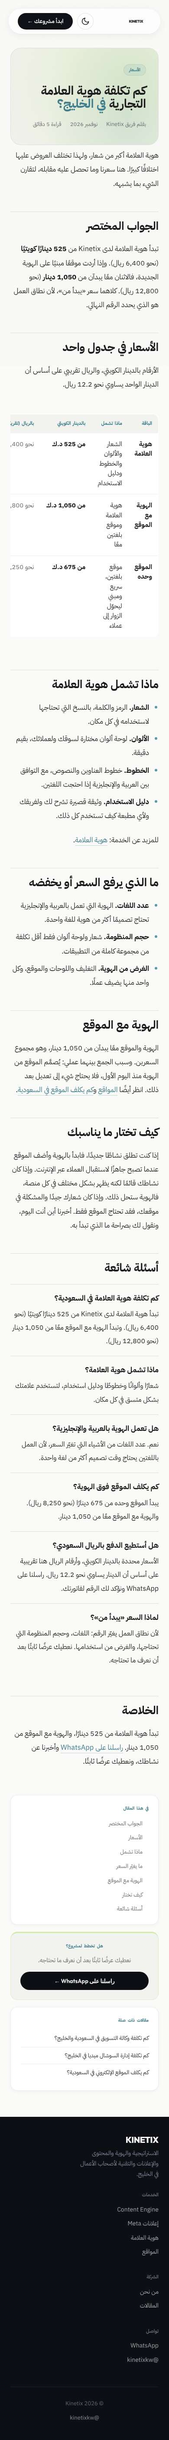
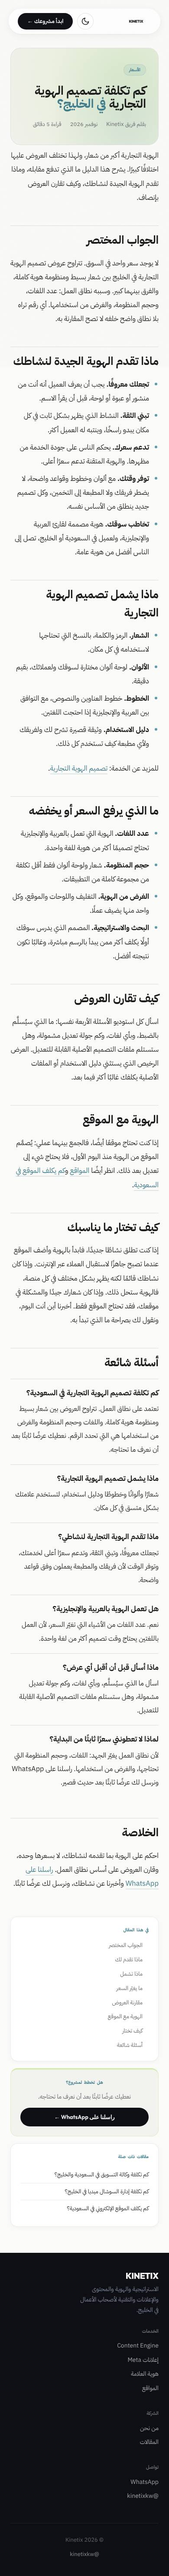
Brand identity cost article: benefits-led, no Kinetix prices, name Brand Identity Design (EN + AR)
Claude-Session: https://claude.ai/code/session_01VGEp5mez7gf8k5JAH74sC2

Changed region(s): [[0.0, 0.0, 1.0, 0.9658], [0.2462, 0.7166, 0.2769, 0.7477], [0.1846, 0.7166, 0.2154, 0.7477]]

diff --git a/ar/articles/brand-identity-cost-gcc.html b/ar/articles/brand-identity-cost-gcc.html
@@ -4,10 +4,10 @@
 <meta charset="UTF-8">
 <link rel="icon" type="image/svg+xml" href="/favicon.svg">
 <meta name="viewport" content="width=device-width, initial-scale=1.0">
-<title>كم تكلفة هوية العلامة التجارية في الخليج؟ (2026) | Kinetix</title>
-<meta name="description" content="كم تكلف هوية العلامة التجارية في السعودية والخليج في 2026: أسعار Kinetix بالدينار الكويتي وما يعادلها بالريال، وماذا تشمل، ومتى تضيف موقعًا.">
-<meta property="og:title" content="كم تكلفة هوية العلامة التجارية في الخليج؟ (2026)">
-<meta property="og:description" content="كم تكلف هوية العلامة التجارية في السعودية والخليج في 2026: أسعار Kinetix بالدينار الكويتي وما يعادلها بالريال، وماذا تشمل، ومتى تضيف موقعًا.">
+<title>كم تكلفة تصميم الهوية التجارية في الخليج؟ (2026) | Kinetix</title>
+<meta name="description" content="كم يكلف تصميم الهوية التجارية في السعودية والخليج في 2026، وما الذي يحدد السعر، وماذا تقدم الهوية الجيدة لنشاطك، وكيف تقارن العروض.">
+<meta property="og:title" content="كم تكلفة تصميم الهوية التجارية في الخليج؟ (2026)">
+<meta property="og:description" content="كم يكلف تصميم الهوية التجارية في السعودية والخليج في 2026، وما الذي يحدد السعر، وماذا تقدم الهوية الجيدة لنشاطك، وكيف تقارن العروض.">
 <meta property="og:type" content="article">
 <meta property="og:image" content="https://www.kinetixkw.com/brand_assets/og-cover.png">
 <meta property="og:site_name" content="Kinetix">
@@ -18,10 +18,10 @@
 <link rel="alternate" hreflang="ar" href="https://www.kinetixkw.com/ar/articles/brand-identity-cost-gcc.html">
 <link rel="alternate" hreflang="x-default" href="https://www.kinetixkw.com/articles/brand-identity-cost-gcc.html">
 <script type="application/ld+json">
-{"@context": "https://schema.org", "@type": "BlogPosting", "headline": "كم تكلفة هوية العلامة التجارية في الخليج؟ (2026)", "description": "كم تكلف هوية العلامة التجارية في السعودية والخليج في 2026: أسعار Kinetix بالدينار الكويتي وما يعادلها بالريال، وماذا تشمل، ومتى تضيف موقعًا.", "image": "https://www.kinetixkw.com/brand_assets/og-cover.png", "author": {"@type": "Organization", "name": "Kinetix"}, "publisher": {"@type": "Organization", "name": "Kinetix", "url": "https://www.kinetixkw.com"}, "datePublished": "2026-11-02", "dateModified": "2026-11-02", "inLanguage": "ar", "mainEntityOfPage": {"@type": "WebPage", "@id": "https://www.kinetixkw.com/ar/articles/brand-identity-cost-gcc.html"}, "url": "https://www.kinetixkw.com/ar/articles/brand-identity-cost-gcc.html"}
+{"@context": "https://schema.org", "@type": "BlogPosting", "headline": "كم تكلفة تصميم الهوية التجارية في الخليج؟ (2026)", "description": "كم يكلف تصميم الهوية التجارية في السعودية والخليج في 2026، وما الذي يحدد السعر، وماذا تقدم الهوية الجيدة لنشاطك، وكيف تقارن العروض.", "image": "https://www.kinetixkw.com/brand_assets/og-cover.png", "author": {"@type": "Organization", "name": "Kinetix"}, "publisher": {"@type": "Organization", "name": "Kinetix", "url": "https://www.kinetixkw.com"}, "datePublished": "2026-11-02", "dateModified": "2026-11-02", "inLanguage": "ar", "mainEntityOfPage": {"@type": "WebPage", "@id": "https://www.kinetixkw.com/ar/articles/brand-identity-cost-gcc.html"}, "url": "https://www.kinetixkw.com/ar/articles/brand-identity-cost-gcc.html"}
 </script>
 <script type="application/ld+json">
-{"@context": "https://schema.org", "@type": "FAQPage", "inLanguage": "ar", "mainEntity": [{"@type": "Question", "name": "كم تكلفة هوية العلامة في السعودية؟", "acceptedAnswer": {"@type": "Answer", "text": "تبدأ هوية العلامة لدى Kinetix من 525 دينارًا كويتيًا (نحو 6,400 ريال). وتبدأ الهوية مع الموقع معًا من 1,050 دينار (نحو 12,800 ريال)."}}, {"@type": "Question", "name": "ماذا تشمل هوية العلامة؟", "acceptedAnswer": {"@type": "Answer", "text": "شعارًا وألوانًا وخطوطًا ودليل استخدام، لتستخدم علامتك بشكل متسق في كل مكان."}}, {"@type": "Question", "name": "هل تعمل الهوية بالعربية والإنجليزية؟", "acceptedAnswer": {"@type": "Answer", "text": "نعم. عدد اللغات من الأشياء التي تغيّر السعر، لأن العمل باللغتين يحتاج وقت تصميم أكثر من لغة واحدة."}}, {"@type": "Question", "name": "كم يكلف الموقع فوق الهوية؟", "acceptedAnswer": {"@type": "Answer", "text": "يبدأ الموقع وحده من 675 دينارًا (نحو 8,250 ريال). والهوية مع الموقع معًا من 1,050 دينار."}}, {"@type": "Question", "name": "هل أستطيع الدفع بالريال السعودي؟", "acceptedAnswer": {"@type": "Answer", "text": "الأسعار محددة بالدينار الكويتي، وأرقام الريال هنا تقريبية على أساس أن الدينار يساوي نحو 12.2 ريال. راسلنا على WhatsApp ونؤكد لك الرقم لفاتورتك."}}, {"@type": "Question", "name": "لماذا السعر «يبدأ من»؟", "acceptedAnswer": {"@type": "Answer", "text": "لأن نطاق العمل يغيّر الرقم: اللغات، وحجم المنظومة التي تحتاجها، والغرض من استخدامها. نعطيك عرضًا ثابتًا بعد أن نعرف ما تحتاجه."}}]}
+{"@context": "https://schema.org", "@type": "FAQPage", "inLanguage": "ar", "mainEntity": [{"@type": "Question", "name": "كم تكلفة تصميم الهوية التجارية في السعودية؟", "acceptedAnswer": {"@type": "Answer", "text": "تعتمد على نطاق العمل. تتراوح العروض بين شعار بسيط ومنظومة هوية كاملة. واللغات وحجم المنظومة والغرض من استخدامها هي التي تحدد الرقم. نعطيك عرضًا ثابتًا بعد أن نعرف ما تحتاجه."}}, {"@type": "Question", "name": "ماذا يشمل تصميم الهوية التجارية؟", "acceptedAnswer": {"@type": "Answer", "text": "شعارًا وألوانًا وخطوطًا ودليل استخدام، لتستخدم علامتك بشكل متسق في كل مكان."}}, {"@type": "Question", "name": "ماذا تقدم الهوية التجارية لنشاطي؟", "acceptedAnswer": {"@type": "Answer", "text": "تجعلك معروفًا، وتبني الثقة، وتدعم سعرًا أعلى لخدمتك، وتوفر الوقت لأن فريقك والمطبعة يعملون وفق قواعد واضحة."}}, {"@type": "Question", "name": "هل تعمل الهوية بالعربية والإنجليزية؟", "acceptedAnswer": {"@type": "Answer", "text": "نعم. عدد اللغات من الأشياء التي تغيّر السعر، لأن العمل باللغتين يحتاج وقت تصميم أكثر من لغة واحدة."}}, {"@type": "Question", "name": "ماذا أسأل قبل أن أقبل أي عرض؟", "acceptedAnswer": {"@type": "Answer", "text": "اسأل ما الذي سيُسلَّم، وبأي لغات، وكم جولة تعديل مشمولة، وهل ستستلم ملفات التصميم الأصلية القابلة للتعديل."}}, {"@type": "Question", "name": "لماذا لا تعطونني سعرًا ثابتًا من البداية؟", "acceptedAnswer": {"@type": "Answer", "text": "لأن نطاق العمل يغيّر الجهد: اللغات، وحجم المنظومة التي تحتاجها، والغرض من استخدامها. راسلنا على WhatsApp ونرسل لك عرضًا ثابتًا بعد حديث قصير."}}]}
 </script>
 <link rel="preconnect" href="https://fonts.googleapis.com"><link rel="preconnect" href="https://fonts.gstatic.com" crossorigin><link href="https://fonts.googleapis.com/css2?family=Outfit:wght@300;400;500;600;700;800&display=swap" rel="stylesheet">
 <link href="https://fonts.googleapis.com/css2?family=IBM+Plex+Sans+Arabic:wght@400;500;600;700&display=swap" rel="stylesheet">
@@ -155,42 +155,49 @@ body,.article-h1,.article-body h2,.article-body h3,.nav-cta,.related-title,.side
 <div class="article-wrap">
   <div class="article-hero"><div class="article-hero-inner">
     <div class="article-cat">الأسعار</div>
-    <h1 class="article-h1">كم تكلفة هوية العلامة التجارية <em>في الخليج؟</em></h1>
+    <h1 class="article-h1">كم تكلفة تصميم الهوية التجارية <em>في الخليج؟</em></h1>
     <div class="article-meta-row"><span>بقلم فريق Kinetix</span><span>نوفمبر 2026</span><span>قراءة 5 دقائق</span></div>
   </div></div>
   <div class="article-main">
   <article class="article-body">
-<p>هوية العلامة أكبر من شعار، ولهذا تختلف العروض عليها اختلافًا كبيرًا. هنا سعرنا وما تحصل عليه مقابله، لتقارن الشيء بما يشبهه.</p>
+<p>الهوية التجارية أكبر من شعار، ولهذا تختلف العروض عليها اختلافًا كبيرًا. يشرح هذا الدليل ما الذي تدفع مقابله، وماذا تقدم الهوية الجيدة لنشاطك، وكيف تقارن العروض بإنصاف.</p>
 <h2 id="short-answer">الجواب المختصر</h2>
-<p>تبدأ هوية العلامة لدى Kinetix من <strong>525 دينارًا كويتيًا</strong> (نحو 6,400 ريال). وإذا أردت موقعًا مبنيًا على الهوية الجديدة، فالاثنان معًا يبدآن من <strong>1,050 دينار</strong> (نحو 12,800 ريال). كلاهما سعر «يبدأ من»، لأن نطاق العمل هو الذي يحدد الرقم النهائي.</p>
-<h2 id="prices">الأسعار في جدول واحد</h2>
-<p>الأرقام بالدينار الكويتي، والريال تقريبي على أساس أن الدينار الواحد يساوي نحو 12.2 ريال.</p>
-<div class="table-scroll"><table class="price-table"><thead><tr><th>الباقة</th><th>ماذا تشمل</th><th>بالدينار الكويتي</th><th>بالريال (تقريبًا)</th></tr></thead><tbody><tr><td>هوية العلامة</td><td>الشعار والألوان والخطوط ودليل الاستخدام</td><td class="num">من <span dir="ltr">525</span> د.ك</td><td class="sar">نحو <span dir="ltr">6,400</span> ريال</td></tr><tr><td>الهوية مع الموقع</td><td>هوية العلامة وموقع بلغتين معًا</td><td class="num">من <span dir="ltr">1,050</span> د.ك</td><td class="sar">نحو <span dir="ltr">12,800</span> ريال</td></tr><tr><td>الموقع وحده</td><td>موقع بلغتين، سريع ومبني ليحوّل الزوار إلى عملاء</td><td class="num">من <span dir="ltr">675</span> د.ك</td><td class="sar">نحو <span dir="ltr">8,250</span> ريال</td></tr></tbody></table></div>
-<h2 id="included">ماذا تشمل هوية العلامة</h2>
+<p>لا يوجد سعر واحد في السوق. تتراوح عروض تصميم الهوية التجارية في الخليج بين شعار بسيط ومنظومة هوية كاملة، والفرق بينهما كبير. وسببه نطاق العمل: عدد اللغات، وحجم المنظومة، والغرض من استخدامها. أي رقم تراه بلا نطاق واضح خلفه لا تصح المقارنة به.</p>
+<h2 id="benefits">ماذا تقدم الهوية الجيدة لنشاطك</h2>
+<ul>
+<li><strong>تجعلك معروفًا.</strong> يجب أن يعرف العميل أنه أنت من منشور أو عبوة أو لوحة، قبل أن يقرأ الاسم.</li>
+<li><strong>تبني الثقة.</strong> النشاط الذي يظهر بشكل ثابت في كل مكان يبدو راسخًا، وينتبه له العميل أكثر.</li>
+<li><strong>تدعم سعرك.</strong> يحكم الناس على جودة الخدمة من مظهرها. والهوية المتقنة تدعم سعرًا أعلى.</li>
+<li><strong>توفر وقتك.</strong> مع ألوان وخطوط وقواعد واضحة، لا يضطر فريقك ولا المطبعة إلى التخمين، وكل تصميم جديد ينطلق من الأساس نفسه.</li>
+<li><strong>تخاطب سوقك.</strong> هوية مصممة لقارئ العربية والإنجليزية، ولعميل في السعودية أو الخليج، تصل إلى الناس أفضل من هوية عامة.</li>
+</ul>
+<h2 id="included">ماذا يشمل تصميم الهوية التجارية</h2>
 <ul>
 <li><strong>الشعار.</strong> الرمز والكلمة، بالنسخ التي تحتاجها لاستخدامه في كل مكان.</li>
 <li><strong>الألوان.</strong> لوحة ألوان مختارة لسوقك ولعملائك، بقيم دقيقة.</li>
 <li><strong>الخطوط.</strong> خطوط العناوين والنصوص، مع التوافق بين العربية والإنجليزية إذا احتجت اللغتين.</li>
 <li><strong>دليل الاستخدام.</strong> وثيقة قصيرة تشرح لك ولفريقك ولأي مطبعة كيف تستخدم كل ذلك.</li>
 </ul>
-<p>للمزيد عن الخدمة: <a href="/ar/services/brand-identity.html">هوية العلامة</a>.</p>
+<p>للمزيد عن الخدمة: <a href="/ar/services/brand-identity.html">تصميم الهوية التجارية</a>.</p>
 <h2 id="drivers">ما الذي يرفع السعر أو يخفضه</h2>
 <ul>
 <li><strong>عدد اللغات.</strong> الهوية التي تعمل بالعربية والإنجليزية تحتاج تصميمًا أكثر من هوية للغة واحدة.</li>
 <li><strong>حجم المنظومة.</strong> شعار ولوحة ألوان فقط أقل تكلفة من مجموعة كاملة من التطبيقات.</li>
 <li><strong>الغرض من الهوية.</strong> التغليف واللوحات والموقع، وكل واحد منها يضيف عملًا.</li>
+<li><strong>البحث والاستراتيجية.</strong> المصمم الذي يدرس سوقك أولًا يكلف أكثر ممن يبدأ بالرسم مباشرة، وغالبًا تكون نتيجته أفضل.</li>
 </ul>
+<h2 id="compare">كيف تقارن العروض</h2>
+<p>اسأل كل استوديو الأسئلة الأربعة نفسها: ما الذي سيُسلَّم بالضبط، وبأي لغات، وكم جولة تعديل مشمولة، وهل ستستلم ملفات التصميم الأصلية القابلة للتعديل. العرض الرخيص الذي يستثني دليل الاستخدام أو الملفات الأصلية يكلفك غالبًا أكثر فيما بعد.</p>
 <h2 id="website">الهوية مع الموقع</h2>
-<p>الهوية والموقع معًا يبدآن من 1,050 دينار، وهو مجموع السعرين. وسبب الجمع بينهما عملي: يُصمَّم الموقع من الهوية منذ اليوم الأول، فلا يحتاج شيء إلى تعديل بعد ذلك. انظر أيضًا <a href="/ar/services/web-development.html">المواقع</a> و<a href="website-cost-saudi-arabia.html">كم يكلف الموقع في السعودية</a>.</p>
+<p>إذا كنت تحتاج موقعًا أيضًا، فالجمع بينهما عملي: يُصمَّم الموقع من الهوية منذ اليوم الأول، فلا يحتاج شيء إلى تعديل بعد ذلك. انظر أيضًا <a href="/ar/services/web-development.html">المواقع</a> و<a href="website-cost-saudi-arabia.html">كم يكلف الموقع في السعودية</a>.</p>
 <h2 id="how">كيف تختار ما يناسبك</h2>
 <p>إذا كنت تطلق نشاطًا جديدًا، فابدأ بالهوية وأضف الموقع عندما تصبح جاهزًا لاستقبال العملاء عبر الإنترنت. وإذا كان نشاطك قائمًا لكنه يظهر بشكل مختلف في كل منصة، فالهوية ستحل ذلك. وإذا كان شعارك جيدًا والمشكلة في موقعك، فقد تحتاج الموقع فقط. أخبرنا أين أنت اليوم، ونقول لك بصراحة ما الذي تبدأ به.</p>
-<h2 id="faq">أسئلة شائعة</h2>
-<div class="faq-item"><h3>كم تكلفة هوية العلامة في السعودية؟</h3><p>تبدأ هوية العلامة لدى Kinetix من 525 دينارًا كويتيًا (نحو 6,400 ريال). وتبدأ الهوية مع الموقع معًا من 1,050 دينار (نحو 12,800 ريال).</p></div><div class="faq-item"><h3>ماذا تشمل هوية العلامة؟</h3><p>شعارًا وألوانًا وخطوطًا ودليل استخدام، لتستخدم علامتك بشكل متسق في كل مكان.</p></div><div class="faq-item"><h3>هل تعمل الهوية بالعربية والإنجليزية؟</h3><p>نعم. عدد اللغات من الأشياء التي تغيّر السعر، لأن العمل باللغتين يحتاج وقت تصميم أكثر من لغة واحدة.</p></div><div class="faq-item"><h3>كم يكلف الموقع فوق الهوية؟</h3><p>يبدأ الموقع وحده من 675 دينارًا (نحو 8,250 ريال). والهوية مع الموقع معًا من 1,050 دينار.</p></div><div class="faq-item"><h3>هل أستطيع الدفع بالريال السعودي؟</h3><p>الأسعار محددة بالدينار الكويتي، وأرقام الريال هنا تقريبية على أساس أن الدينار يساوي نحو 12.2 ريال. راسلنا على WhatsApp ونؤكد لك الرقم لفاتورتك.</p></div><div class="faq-item"><h3>لماذا السعر «يبدأ من»؟</h3><p>لأن نطاق العمل يغيّر الرقم: اللغات، وحجم المنظومة التي تحتاجها، والغرض من استخدامها. نعطيك عرضًا ثابتًا بعد أن نعرف ما تحتاجه.</p></div>
+<h2 id="faq">أسئلة شائعة</h2><div class="faq-item"><h3>كم تكلفة تصميم الهوية التجارية في السعودية؟</h3><p>تعتمد على نطاق العمل. تتراوح العروض بين شعار بسيط ومنظومة هوية كاملة. واللغات وحجم المنظومة والغرض من استخدامها هي التي تحدد الرقم. نعطيك عرضًا ثابتًا بعد أن نعرف ما تحتاجه.</p></div><div class="faq-item"><h3>ماذا يشمل تصميم الهوية التجارية؟</h3><p>شعارًا وألوانًا وخطوطًا ودليل استخدام، لتستخدم علامتك بشكل متسق في كل مكان.</p></div><div class="faq-item"><h3>ماذا تقدم الهوية التجارية لنشاطي؟</h3><p>تجعلك معروفًا، وتبني الثقة، وتدعم سعرًا أعلى لخدمتك، وتوفر الوقت لأن فريقك والمطبعة يعملون وفق قواعد واضحة.</p></div><div class="faq-item"><h3>هل تعمل الهوية بالعربية والإنجليزية؟</h3><p>نعم. عدد اللغات من الأشياء التي تغيّر السعر، لأن العمل باللغتين يحتاج وقت تصميم أكثر من لغة واحدة.</p></div><div class="faq-item"><h3>ماذا أسأل قبل أن أقبل أي عرض؟</h3><p>اسأل ما الذي سيُسلَّم، وبأي لغات، وكم جولة تعديل مشمولة، وهل ستستلم ملفات التصميم الأصلية القابلة للتعديل.</p></div><div class="faq-item"><h3>لماذا لا تعطونني سعرًا ثابتًا من البداية؟</h3><p>لأن نطاق العمل يغيّر الجهد: اللغات، وحجم المنظومة التي تحتاجها، والغرض من استخدامها. راسلنا على WhatsApp ونرسل لك عرضًا ثابتًا بعد حديث قصير.</p></div>
 <h2 id="bottom">الخلاصة</h2>
-<p>تبدأ هوية العلامة من 525 دينارًا، والهوية مع الموقع من 1,050 دينار. <a href="https://wa.me/96592274600">راسلنا على WhatsApp</a> وأخبرنا عن نشاطك، ونعطيك عرضًا ثابتًا.</p>
+<p>احكم على الهوية بما تقدمه لنشاطك، لا بسعرها وحده، وقارن العروض على أساس نطاق العمل. <a href="https://wa.me/96592274600">راسلنا على WhatsApp</a> وأخبرنا عن نشاطك، ونرسل لك عرضًا ثابتًا.</p>
   </article>
   <aside class="article-sidebar">
-    <div class="sidebar-card"><div class="sidebar-label">في هذا المقال</div><ul class="sidebar-toc"><li><a href="#short-answer">الجواب المختصر</a></li><li><a href="#prices">الأسعار</a></li><li><a href="#included">ماذا تشمل</a></li><li><a href="#drivers">ما يغيّر السعر</a></li><li><a href="#website">الهوية مع الموقع</a></li><li><a href="#how">كيف تختار</a></li><li><a href="#faq">أسئلة شائعة</a></li></ul></div>
+    <div class="sidebar-card"><div class="sidebar-label">في هذا المقال</div><ul class="sidebar-toc"><li><a href="#short-answer">الجواب المختصر</a></li><li><a href="#benefits">ماذا تقدم لك</a></li><li><a href="#included">ماذا تشمل</a></li><li><a href="#drivers">ما يغيّر السعر</a></li><li><a href="#compare">مقارنة العروض</a></li><li><a href="#website">الهوية مع الموقع</a></li><li><a href="#how">كيف تختار</a></li><li><a href="#faq">أسئلة شائعة</a></li></ul></div>
     <div class="sidebar-cta"><div class="sidebar-label">هل تخطط لمشروع؟</div><p>نعطيك عرضًا ثابتًا بعد أن نعرف ما تحتاجه.</p><a href="https://wa.me/96592274600">راسلنا على WhatsApp ←</a></div>
     
   <div class="sidebar-card"><div class="sidebar-label">مقالات ذات صلة</div><div class="sidebar-related"><a href="marketing-agency-cost-saudi-arabia-gcc.html">كم تكلفة وكالة التسويق في السعودية والخليج؟</a><a href="social-media-management-cost-gcc.html">كم تكلفة إدارة السوشال ميديا في الخليج؟</a><a href="website-cost-saudi-arabia.html">كم يكلف الموقع الإلكتروني في السعودية؟</a></div></div>
@@ -207,7 +214,7 @@ body,.article-h1,.article-body h2,.article-body h3,.nav-cta,.related-title,.side
       <h4>الخدمات</h4>
       <a href="/ar/services/content-engine.html">Content Engine</a>
       <a href="/ar/services/meta-ads.html">إعلانات Meta</a>
-      <a href="/ar/services/brand-identity.html">هوية العلامة</a>
+      <a href="/ar/services/brand-identity.html">تصميم الهوية التجارية</a>
       <a href="/ar/services/web-development.html">المواقع</a>
     </div>
     <div class="footer-col">

diff --git a/articles/brand-identity-cost-gcc.html b/articles/brand-identity-cost-gcc.html
@@ -4,10 +4,10 @@
 <meta charset="UTF-8">
 <link rel="icon" type="image/svg+xml" href="/favicon.svg">
 <meta name="viewport" content="width=device-width, initial-scale=1.0">
-<title>How Much Does Brand Identity Cost in the GCC? (2026) | Kinetix</title>
-<meta name="description" content="What a brand identity costs in Saudi Arabia and the GCC in 2026: Kinetix prices in KWD with approximate SAR, what is included, and when to add a website.">
-<meta property="og:title" content="How Much Does Brand Identity Cost in the GCC? (2026)">
-<meta property="og:description" content="What a brand identity costs in Saudi Arabia and the GCC in 2026: Kinetix prices in KWD with approximate SAR, what is included, and when to add a website.">
+<title>How Much Does Brand Identity Design Cost in the GCC? (2026) | Kinetix</title>
+<meta name="description" content="What brand identity design costs in Saudi Arabia and the GCC in 2026, what drives the price, what a good identity does for your business, and how to compare quotes.">
+<meta property="og:title" content="How Much Does Brand Identity Design Cost in the GCC? (2026)">
+<meta property="og:description" content="What brand identity design costs in Saudi Arabia and the GCC in 2026, what drives the price, what a good identity does for your business, and how to compare quotes.">
 <meta property="og:type" content="article">
 <meta property="og:image" content="https://www.kinetixkw.com/brand_assets/og-cover.png">
 <meta property="og:site_name" content="Kinetix">
@@ -18,10 +18,10 @@
 <link rel="alternate" hreflang="ar" href="https://www.kinetixkw.com/ar/articles/brand-identity-cost-gcc.html">
 <link rel="alternate" hreflang="x-default" href="https://www.kinetixkw.com/articles/brand-identity-cost-gcc.html">
 <script type="application/ld+json">
-{"@context": "https://schema.org", "@type": "BlogPosting", "headline": "How Much Does Brand Identity Cost in the GCC? (2026)", "description": "What a brand identity costs in Saudi Arabia and the GCC in 2026: Kinetix prices in KWD with approximate SAR, what is included, and when to add a website.", "image": "https://www.kinetixkw.com/brand_assets/og-cover.png", "author": {"@type": "Organization", "name": "Kinetix"}, "publisher": {"@type": "Organization", "name": "Kinetix", "url": "https://www.kinetixkw.com"}, "datePublished": "2026-11-02", "dateModified": "2026-11-02", "inLanguage": "en", "mainEntityOfPage": {"@type": "WebPage", "@id": "https://www.kinetixkw.com/articles/brand-identity-cost-gcc.html"}, "url": "https://www.kinetixkw.com/articles/brand-identity-cost-gcc.html"}
+{"@context": "https://schema.org", "@type": "BlogPosting", "headline": "How Much Does Brand Identity Design Cost in the GCC? (2026)", "description": "What brand identity design costs in Saudi Arabia and the GCC in 2026, what drives the price, what a good identity does for your business, and how to compare quotes.", "image": "https://www.kinetixkw.com/brand_assets/og-cover.png", "author": {"@type": "Organization", "name": "Kinetix"}, "publisher": {"@type": "Organization", "name": "Kinetix", "url": "https://www.kinetixkw.com"}, "datePublished": "2026-11-02", "dateModified": "2026-11-02", "inLanguage": "en", "mainEntityOfPage": {"@type": "WebPage", "@id": "https://www.kinetixkw.com/articles/brand-identity-cost-gcc.html"}, "url": "https://www.kinetixkw.com/articles/brand-identity-cost-gcc.html"}
 </script>
 <script type="application/ld+json">
-{"@context": "https://schema.org", "@type": "FAQPage", "inLanguage": "en", "mainEntity": [{"@type": "Question", "name": "How much does a brand identity cost in Saudi Arabia?", "acceptedAnswer": {"@type": "Answer", "text": "At Kinetix, brand identity starts from KWD 525 (about SAR 6,400). Identity plus a website together starts from KWD 1,050 (about SAR 12,800)."}}, {"@type": "Question", "name": "What is included in a brand identity?", "acceptedAnswer": {"@type": "Answer", "text": "A logo, colours, type and a usage guide, so you can use the brand consistently everywhere."}}, {"@type": "Question", "name": "Can the identity work in Arabic and English?", "acceptedAnswer": {"@type": "Answer", "text": "Yes. Languages are one of the things that move the price, because working in both takes more design time than one."}}, {"@type": "Question", "name": "How much does a website cost on top of the identity?", "acceptedAnswer": {"@type": "Answer", "text": "A website on its own starts from KWD 675 (about SAR 8,250). Identity and website together start from KWD 1,050."}}, {"@type": "Question", "name": "Can I pay in Saudi riyals?", "acceptedAnswer": {"@type": "Answer", "text": "Prices are set in Kuwaiti dinars. The riyal figures here are approximate, using 1 KWD as roughly SAR 12.2. Message us on WhatsApp and we will confirm the figure for your invoice."}}, {"@type": "Question", "name": "Why is the price a \"from\" price?", "acceptedAnswer": {"@type": "Answer", "text": "Because the scope changes the number: languages, how much of the system you need, and what you will use it for. We give a fixed quote once we know what you need."}}]}
+{"@context": "https://schema.org", "@type": "FAQPage", "inLanguage": "en", "mainEntity": [{"@type": "Question", "name": "How much does brand identity design cost in Saudi Arabia?", "acceptedAnswer": {"@type": "Answer", "text": "It depends on scope. Quotes range from a simple logo to a full identity system. Languages, the size of the system and what it will be used for decide the number. We give a fixed quote once we know what you need."}}, {"@type": "Question", "name": "What is included in brand identity design?", "acceptedAnswer": {"@type": "Answer", "text": "A logo, colours, type and a usage guide, so you can use the brand consistently everywhere."}}, {"@type": "Question", "name": "What does a brand identity do for my business?", "acceptedAnswer": {"@type": "Answer", "text": "It makes you recognisable, builds trust, supports a higher price for your service, and saves time because your team and printers work from clear rules."}}, {"@type": "Question", "name": "Can the identity work in Arabic and English?", "acceptedAnswer": {"@type": "Answer", "text": "Yes. Languages are one of the things that move the price, because working in both takes more design time than one."}}, {"@type": "Question", "name": "What should I ask before I accept a quote?", "acceptedAnswer": {"@type": "Answer", "text": "What is delivered, in which languages, how many rounds of changes are included, and whether you receive the editable source files."}}, {"@type": "Question", "name": "Why can't you give one fixed price up front?", "acceptedAnswer": {"@type": "Answer", "text": "Because the scope changes the work: languages, how much of the system you need, and what you will use it for. Message us on WhatsApp and we will send a fixed quote after a short conversation."}}]}
 </script>
 <link rel="preconnect" href="https://fonts.googleapis.com"><link rel="preconnect" href="https://fonts.gstatic.com" crossorigin><link href="https://fonts.googleapis.com/css2?family=Outfit:wght@300;400;500;600;700;800&display=swap" rel="stylesheet">
 
@@ -146,42 +146,49 @@ body::after{content:'';position:fixed;inset:0;pointer-events:none;z-index:5000;o
 <div class="article-wrap">
   <div class="article-hero"><div class="article-hero-inner">
     <div class="article-cat">Pricing</div>
-    <h1 class="article-h1">How Much Does Brand Identity Cost <em>in the GCC?</em></h1>
+    <h1 class="article-h1">How Much Does Brand Identity Design Cost <em>in the GCC?</em></h1>
     <div class="article-meta-row"><span>By Kinetix Team</span><span>November 2026</span><span>5 min read</span></div>
   </div></div>
   <div class="article-main">
   <article class="article-body">
-<p>A brand identity is more than a logo, and that is why quotes for it vary so much. Here is what ours costs and what you get for it, so you can compare like with like.</p>
+<p>A brand identity is more than a logo, and that is why quotes for it vary so much. This guide explains what you are paying for, what a good identity does for your business, and how to compare offers fairly.</p>
 <h2 id="short-answer">The short answer</h2>
-<p>Brand identity at Kinetix starts from <strong>KWD 525</strong> (about SAR 6,400). If you want a website built on the new identity, the two together start from <strong>KWD 1,050</strong> (about SAR 12,800). Both are "from" prices, because the scope decides the final number.</p>
-<h2 id="prices">Prices in one table</h2>
-<p>Prices are in Kuwaiti dinars. Riyal figures are approximate, using 1 KWD as roughly SAR 12.2.</p>
-<div class="table-scroll"><table class="price-table"><thead><tr><th>Package</th><th>What it covers</th><th>KWD</th><th>SAR (approx.)</th></tr></thead><tbody><tr><td>Brand identity</td><td>Logo, colours, type and usage guide</td><td class="num">from KWD 525</td><td class="sar">about SAR 6,400</td></tr><tr><td>Brand identity + website</td><td>Identity and a bilingual website together</td><td class="num">from KWD 1,050</td><td class="sar">about SAR 12,800</td></tr><tr><td>Website only</td><td>Bilingual, fast, built to convert</td><td class="num">from KWD 675</td><td class="sar">about SAR 8,250</td></tr></tbody></table></div>
-<h2 id="included">What a brand identity includes</h2>
+<p>There is no single market price. Brand identity design quotes in the GCC range from a simple logo to a full identity system, and the gap between them is large. It comes down to scope: how many languages, how much of the system, and what it will be used for. Any number you see without a scope behind it is not worth comparing.</p>
+<h2 id="benefits">What a good identity does for your business</h2>
+<ul>
+<li><strong>It makes you recognisable.</strong> Customers should know it is you from a post, a package or a sign, before they read the name.</li>
+<li><strong>It builds trust.</strong> A business that looks consistent everywhere feels established, and customers pay more attention to it.</li>
+<li><strong>It lets you charge for quality.</strong> People judge the quality of a service by how it looks. A careful identity supports a premium price.</li>
+<li><strong>It saves you time.</strong> With clear colours, fonts and rules, your team and your printers stop guessing, and every new design starts from the same base.</li>
+<li><strong>It speaks to your market.</strong> An identity built for Arabic and English readers, for Saudi customers or Gulf customers, connects better than a generic one.</li>
+</ul>
+<h2 id="included">What brand identity design includes</h2>
 <ul>
 <li><strong>Logo.</strong> The mark and wordmark, in the versions you need to use it everywhere.</li>
 <li><strong>Colours.</strong> A palette chosen for your market and your customers, with exact values.</li>
 <li><strong>Type.</strong> The fonts for headings and text, including the Arabic and English pairing when you need both.</li>
 <li><strong>Usage guide.</strong> A short document that tells you, your team and any printer how to use all of it.</li>
 </ul>
-<p>More on the service: <a href="/services/brand-identity.html">brand identity</a>.</p>
+<p>More on the service: <a href="/services/brand-identity.html">brand identity design</a>.</p>
 <h2 id="drivers">What moves the price up or down</h2>
 <ul>
 <li><strong>Languages.</strong> An identity that works in Arabic and English needs more design work than one that works in a single language.</li>
 <li><strong>Size of the system.</strong> A single logo and palette costs less than a full set of applications.</li>
 <li><strong>What you need it for.</strong> Packaging, signage and a website each add work.</li>
+<li><strong>Research and strategy.</strong> A designer who studies your market first costs more than one who starts drawing, and usually gives a better result.</li>
 </ul>
+<h2 id="compare">How to compare quotes</h2>
+<p>Ask each studio the same four questions: what exactly is delivered, in which languages, how many rounds of changes are included, and whether you receive the editable source files. A cheap quote that leaves out the usage guide or the source files often costs more later.</p>
 <h2 id="website">Identity with a website</h2>
-<p>Taking identity and website together starts from KWD 1,050, which is the same as the two prices added up. The reason to do them together is practical: the website is designed from the identity from the first day, so nothing has to be fixed afterwards. See also <a href="/services/web-development.html">websites</a> and <a href="website-cost-saudi-arabia.html">what a website costs in Saudi Arabia</a>.</p>
+<p>If you also need a website, doing both together is practical: the website is designed from the identity from the first day, so nothing has to be fixed afterwards. See also <a href="/services/web-development.html">websites</a> and <a href="website-cost-saudi-arabia.html">what a website costs in Saudi Arabia</a>.</p>
 <h2 id="how">How to choose what fits</h2>
-<p>If you are launching a new business, do identity first, and add the website when you are ready to take customers online. If your business already trades but looks different on every platform, an identity will fix that. If your logo is fine and your site is the problem, you may only need the website. Tell us where you are and we will say honestly what to do first.</p>
-<h2 id="faq">Frequently asked questions</h2>
-<div class="faq-item"><h3>How much does a brand identity cost in Saudi Arabia?</h3><p>At Kinetix, brand identity starts from KWD 525 (about SAR 6,400). Identity plus a website together starts from KWD 1,050 (about SAR 12,800).</p></div><div class="faq-item"><h3>What is included in a brand identity?</h3><p>A logo, colours, type and a usage guide, so you can use the brand consistently everywhere.</p></div><div class="faq-item"><h3>Can the identity work in Arabic and English?</h3><p>Yes. Languages are one of the things that move the price, because working in both takes more design time than one.</p></div><div class="faq-item"><h3>How much does a website cost on top of the identity?</h3><p>A website on its own starts from KWD 675 (about SAR 8,250). Identity and website together start from KWD 1,050.</p></div><div class="faq-item"><h3>Can I pay in Saudi riyals?</h3><p>Prices are set in Kuwaiti dinars. The riyal figures here are approximate, using 1 KWD as roughly SAR 12.2. Message us on WhatsApp and we will confirm the figure for your invoice.</p></div><div class="faq-item"><h3>Why is the price a "from" price?</h3><p>Because the scope changes the number: languages, how much of the system you need, and what you will use it for. We give a fixed quote once we know what you need.</p></div>
+<p>If you are launching a new business, do the identity first and add the website when you are ready to take customers online. If your business already trades but looks different on every platform, an identity will fix that. If your logo is fine and your site is the problem, you may only need the website. Tell us where you are and we will say honestly what to do first.</p>
+<h2 id="faq">Frequently asked questions</h2><div class="faq-item"><h3>How much does brand identity design cost in Saudi Arabia?</h3><p>It depends on scope. Quotes range from a simple logo to a full identity system. Languages, the size of the system and what it will be used for decide the number. We give a fixed quote once we know what you need.</p></div><div class="faq-item"><h3>What is included in brand identity design?</h3><p>A logo, colours, type and a usage guide, so you can use the brand consistently everywhere.</p></div><div class="faq-item"><h3>What does a brand identity do for my business?</h3><p>It makes you recognisable, builds trust, supports a higher price for your service, and saves time because your team and printers work from clear rules.</p></div><div class="faq-item"><h3>Can the identity work in Arabic and English?</h3><p>Yes. Languages are one of the things that move the price, because working in both takes more design time than one.</p></div><div class="faq-item"><h3>What should I ask before I accept a quote?</h3><p>What is delivered, in which languages, how many rounds of changes are included, and whether you receive the editable source files.</p></div><div class="faq-item"><h3>Why can't you give one fixed price up front?</h3><p>Because the scope changes the work: languages, how much of the system you need, and what you will use it for. Message us on WhatsApp and we will send a fixed quote after a short conversation.</p></div>
 <h2 id="bottom">The bottom line</h2>
-<p>Brand identity starts from KWD 525, and identity with a website from KWD 1,050. <a href="https://wa.me/96592274600">Message us on WhatsApp</a>, tell us about your business, and we will send a fixed quote.</p>
+<p>Judge an identity by what it does for your business, not by the price alone, and compare quotes on scope. <a href="https://wa.me/96592274600">Message us on WhatsApp</a>, tell us about your business, and we will send a fixed quote.</p>
   </article>
   <aside class="article-sidebar">
-    <div class="sidebar-card"><div class="sidebar-label">In This Article</div><ul class="sidebar-toc"><li><a href="#short-answer">The Short Answer</a></li><li><a href="#prices">Prices</a></li><li><a href="#included">What Is Included</a></li><li><a href="#drivers">What Moves the Price</a></li><li><a href="#website">Identity and Website</a></li><li><a href="#how">How to Choose</a></li><li><a href="#faq">FAQ</a></li></ul></div>
+    <div class="sidebar-card"><div class="sidebar-label">In This Article</div><ul class="sidebar-toc"><li><a href="#short-answer">The Short Answer</a></li><li><a href="#benefits">What It Does for You</a></li><li><a href="#included">What Is Included</a></li><li><a href="#drivers">What Moves the Price</a></li><li><a href="#compare">Comparing Quotes</a></li><li><a href="#website">Identity and Website</a></li><li><a href="#how">How to Choose</a></li><li><a href="#faq">FAQ</a></li></ul></div>
     <div class="sidebar-cta"><div class="sidebar-label">Planning a project?</div><p>We give a fixed quote once we know what you need.</p><a href="https://wa.me/96592274600">WhatsApp Us →</a></div>
     <div class="sidebar-card"><div class="sidebar-label">Related Articles</div><div class="sidebar-related"><a href="marketing-agency-cost-saudi-arabia-gcc.html">How Much Does a Marketing Agency Cost in Saudi Arabia and the GCC?</a><a href="social-media-management-cost-gcc.html">How Much Does Social Media Management Cost in the GCC?</a><a href="website-cost-saudi-arabia.html">How Much Does a Website Cost in Saudi Arabia?</a></div></div>
   </aside>
@@ -197,7 +204,7 @@ body::after{content:'';position:fixed;inset:0;pointer-events:none;z-index:5000;o
       <h4>Services</h4>
       <a href="/services/content-engine.html">Content Engine</a>
       <a href="/services/meta-ads.html">Meta Ads</a>
-      <a href="/services/brand-identity.html">Brand Identity</a>
+      <a href="/services/brand-identity.html">Brand Identity Design</a>
       <a href="/services/web-development.html">Websites</a>
     </div>
     <div class="footer-col">

diff --git a/ar/articles/social-media-management-cost-gcc.html b/ar/articles/social-media-management-cost-gcc.html
@@ -205,7 +205,7 @@ body,.article-h1,.article-body h2,.article-body h3,.nav-cta,.related-title,.side
       <h4>الخدمات</h4>
       <a href="/ar/services/content-engine.html">Content Engine</a>
       <a href="/ar/services/meta-ads.html">إعلانات Meta</a>
-      <a href="/ar/services/brand-identity.html">هوية العلامة</a>
+      <a href="/ar/services/brand-identity.html">تصميم الهوية التجارية</a>
       <a href="/ar/services/web-development.html">المواقع</a>
     </div>
     <div class="footer-col">

diff --git a/ar/articles/website-cost-saudi-arabia.html b/ar/articles/website-cost-saudi-arabia.html
@@ -202,7 +202,7 @@ body,.article-h1,.article-body h2,.article-body h3,.nav-cta,.related-title,.side
       <h4>الخدمات</h4>
       <a href="/ar/services/content-engine.html">Content Engine</a>
       <a href="/ar/services/meta-ads.html">إعلانات Meta</a>
-      <a href="/ar/services/brand-identity.html">هوية العلامة</a>
+      <a href="/ar/services/brand-identity.html">تصميم الهوية التجارية</a>
       <a href="/ar/services/web-development.html">المواقع</a>
     </div>
     <div class="footer-col">

diff --git a/articles/social-media-management-cost-gcc.html b/articles/social-media-management-cost-gcc.html
@@ -195,7 +195,7 @@ body::after{content:'';position:fixed;inset:0;pointer-events:none;z-index:5000;o
       <h4>Services</h4>
       <a href="/services/content-engine.html">Content Engine</a>
       <a href="/services/meta-ads.html">Meta Ads</a>
-      <a href="/services/brand-identity.html">Brand Identity</a>
+      <a href="/services/brand-identity.html">Brand Identity Design</a>
       <a href="/services/web-development.html">Websites</a>
     </div>
     <div class="footer-col">

diff --git a/articles/website-cost-saudi-arabia.html b/articles/website-cost-saudi-arabia.html
@@ -192,7 +192,7 @@ body::after{content:'';position:fixed;inset:0;pointer-events:none;z-index:5000;o
       <h4>Services</h4>
       <a href="/services/content-engine.html">Content Engine</a>
       <a href="/services/meta-ads.html">Meta Ads</a>
-      <a href="/services/brand-identity.html">Brand Identity</a>
+      <a href="/services/brand-identity.html">Brand Identity Design</a>
       <a href="/services/web-development.html">Websites</a>
     </div>
     <div class="footer-col">

diff --git a/docs/agent-queue.md b/docs/agent-queue.md
@@ -55,8 +55,9 @@ Show SAR equivalents next to KWD in any KSA-facing article (1 KWD ≈ 12.2 SAR; 
 5. **Pricing article (EN + AR)** — `todo`
    "How much does a marketing agency cost in Saudi Arabia and the GCC (2026)", using the price table above, with FAQ section + FAQPage schema. Link from website-cost-kuwait article. Approval needed: yes.
 
-6. **Three cost articles (EN + AR)** — `awaiting-approval` (branch `agent/cost-articles`, shots in `docs/review/cost-articles/`)
+6. **Three cost articles (EN + AR)** — `changes-requested` (branch `agent/cost-articles`, shots in `docs/review/cost-articles/`)
    Social media management cost GCC; brand identity cost GCC; website cost Saudi Arabia. Same format as website-cost-kuwait.html (the page ChatGPT cites). FAQ + schema each. Approval needed: yes.
+   Feedback (Telegram, Abbas, 2026-11-03): "I don't like to add our prices like this, like we're a restaurant, but we can talk about market prices in articles" / "This should talk about identity benefits and stuff also not just the price" / service name is "Brand Identity Design" (AR: تصميم الهوية التجارية) / "be very very careful with the copywriting". Brand identity article redone this run (no Kinetix prices, benefits-led, new name). Social media and website-cost articles still carry Kinetix prices: waiting on Abbas for market-price figures with sources (agent will not invent them).
 
 7. **llms.txt, schema, sitemap, hreflang** — `todo` (after 4)
    Rewrite llms.txt around the proven menu + GCC/KSA. Organization/ProfessionalService schema areaServed = SA, KW, AE, QA, BH, OM. Remove old stats from content.json. Add every new page to sitemap.xml. Approval needed: no (text-only, but list the diff in the PR).
@@ -70,3 +71,8 @@ Show SAR equivalents next to KWD in any KSA-facing article (1 KWD ≈ 12.2 SAR; 
 - Bing Webmaster Tools: add kinetixkw.com, submit sitemap, enable IndexNow.
 - Decide Growth + SEO tier (rename + ~900 KWD recommended).
 - Final merge of `overhaul/ai-first` → `main` (= going live).
+
+## Proposed (not started, needs Abbas's go-ahead)
+
+- **Deep research: agentic-as-a-service / AI-native services agency** (Abbas, 2026-11-02/03, video transcript). Research only, conflicts with the proven-services rule until he decides what we can honestly sell.
+- **Free SEO score tool + lead capture** (Abbas, 2026-11-03). Needs the old dashboard tool's code and a decision on where leads go.

diff --git a/docs/agent-log.md b/docs/agent-log.md
@@ -4,3 +4,8 @@
 - PRs #1, #2, #3 in flight, no new feedback. Built social-media-management-cost-gcc, brand-identity-cost-gcc, website-cost-saudi-arabia, EN + AR, from the pricing-article template. Prices only from the queue table. FAQPage + BlogPosting schema, hreflang pairs, 6 sitemap entries.
 - Checked: no horizontal overflow, desktop 1440 and mobile 390. Price table scrolls sideways on mobile (same as PR #3).
 - Links to the pricing article (PR #3) and service pages (PR #2) 404 until those land.
+
+## 2026-11-03: Agent run: cost articles feedback (task 6)
+- Abbas: no Kinetix price lists in articles, talk benefits, name is Brand Identity Design / تصميم الهوية التجارية. Rewrote brand-identity-cost-gcc EN + AR: no Kinetix prices, benefits section, how to compare quotes, no invented figures. Footer link label updated in all three articles.
+- Not done: other two articles still show Kinetix prices (need sourced market figures from Abbas); pricing article PR #3 and service pages PR #2 not touched. Added deep-research and SEO tool asks as proposed.
+- Checked desktop and mobile renders; Arabic reviewed against docs/arabic-rules.md, but not by a native reader.
